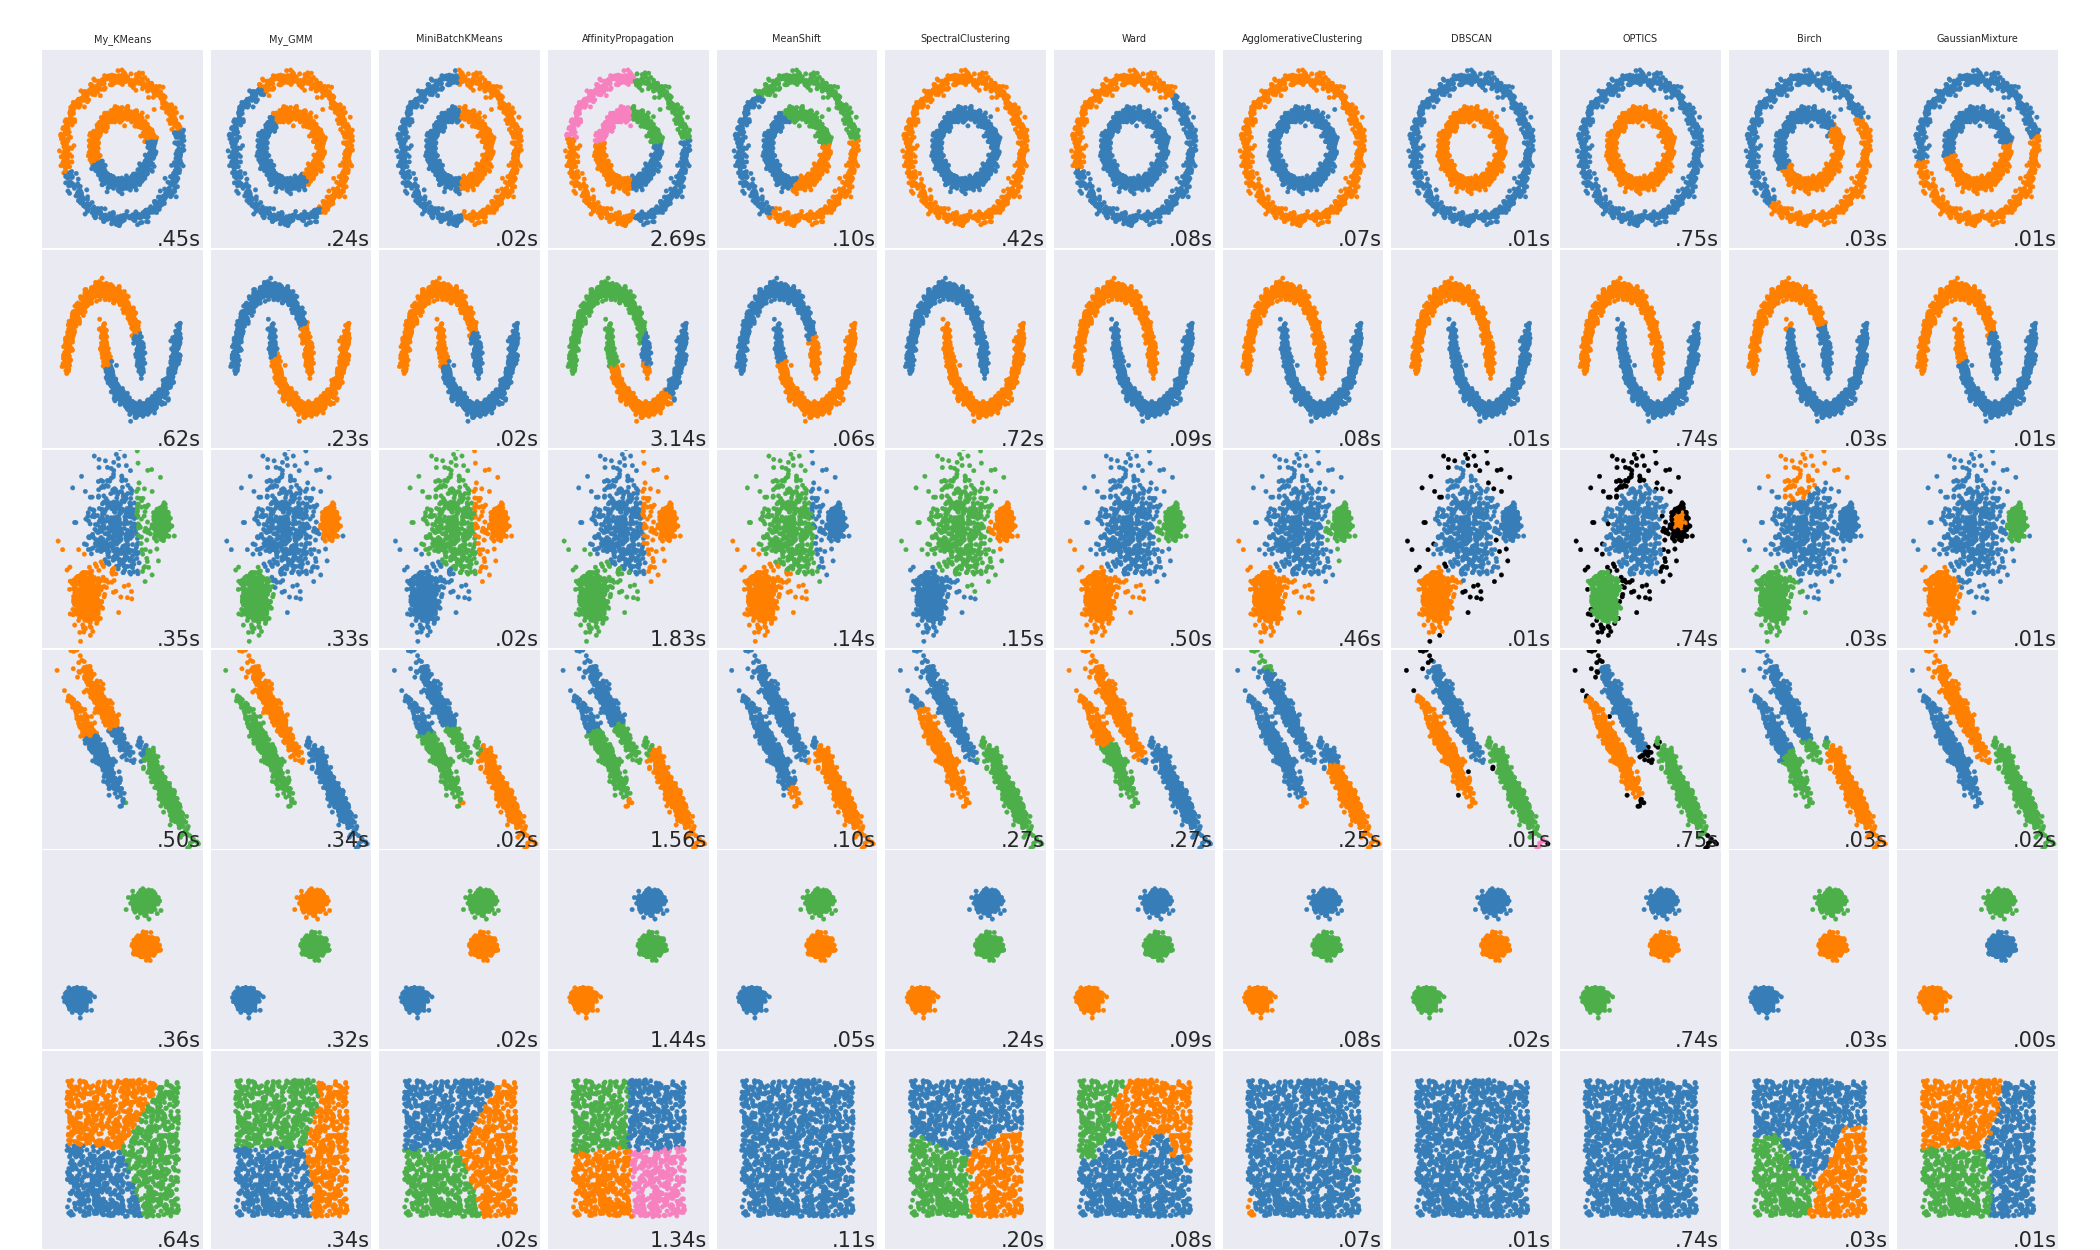
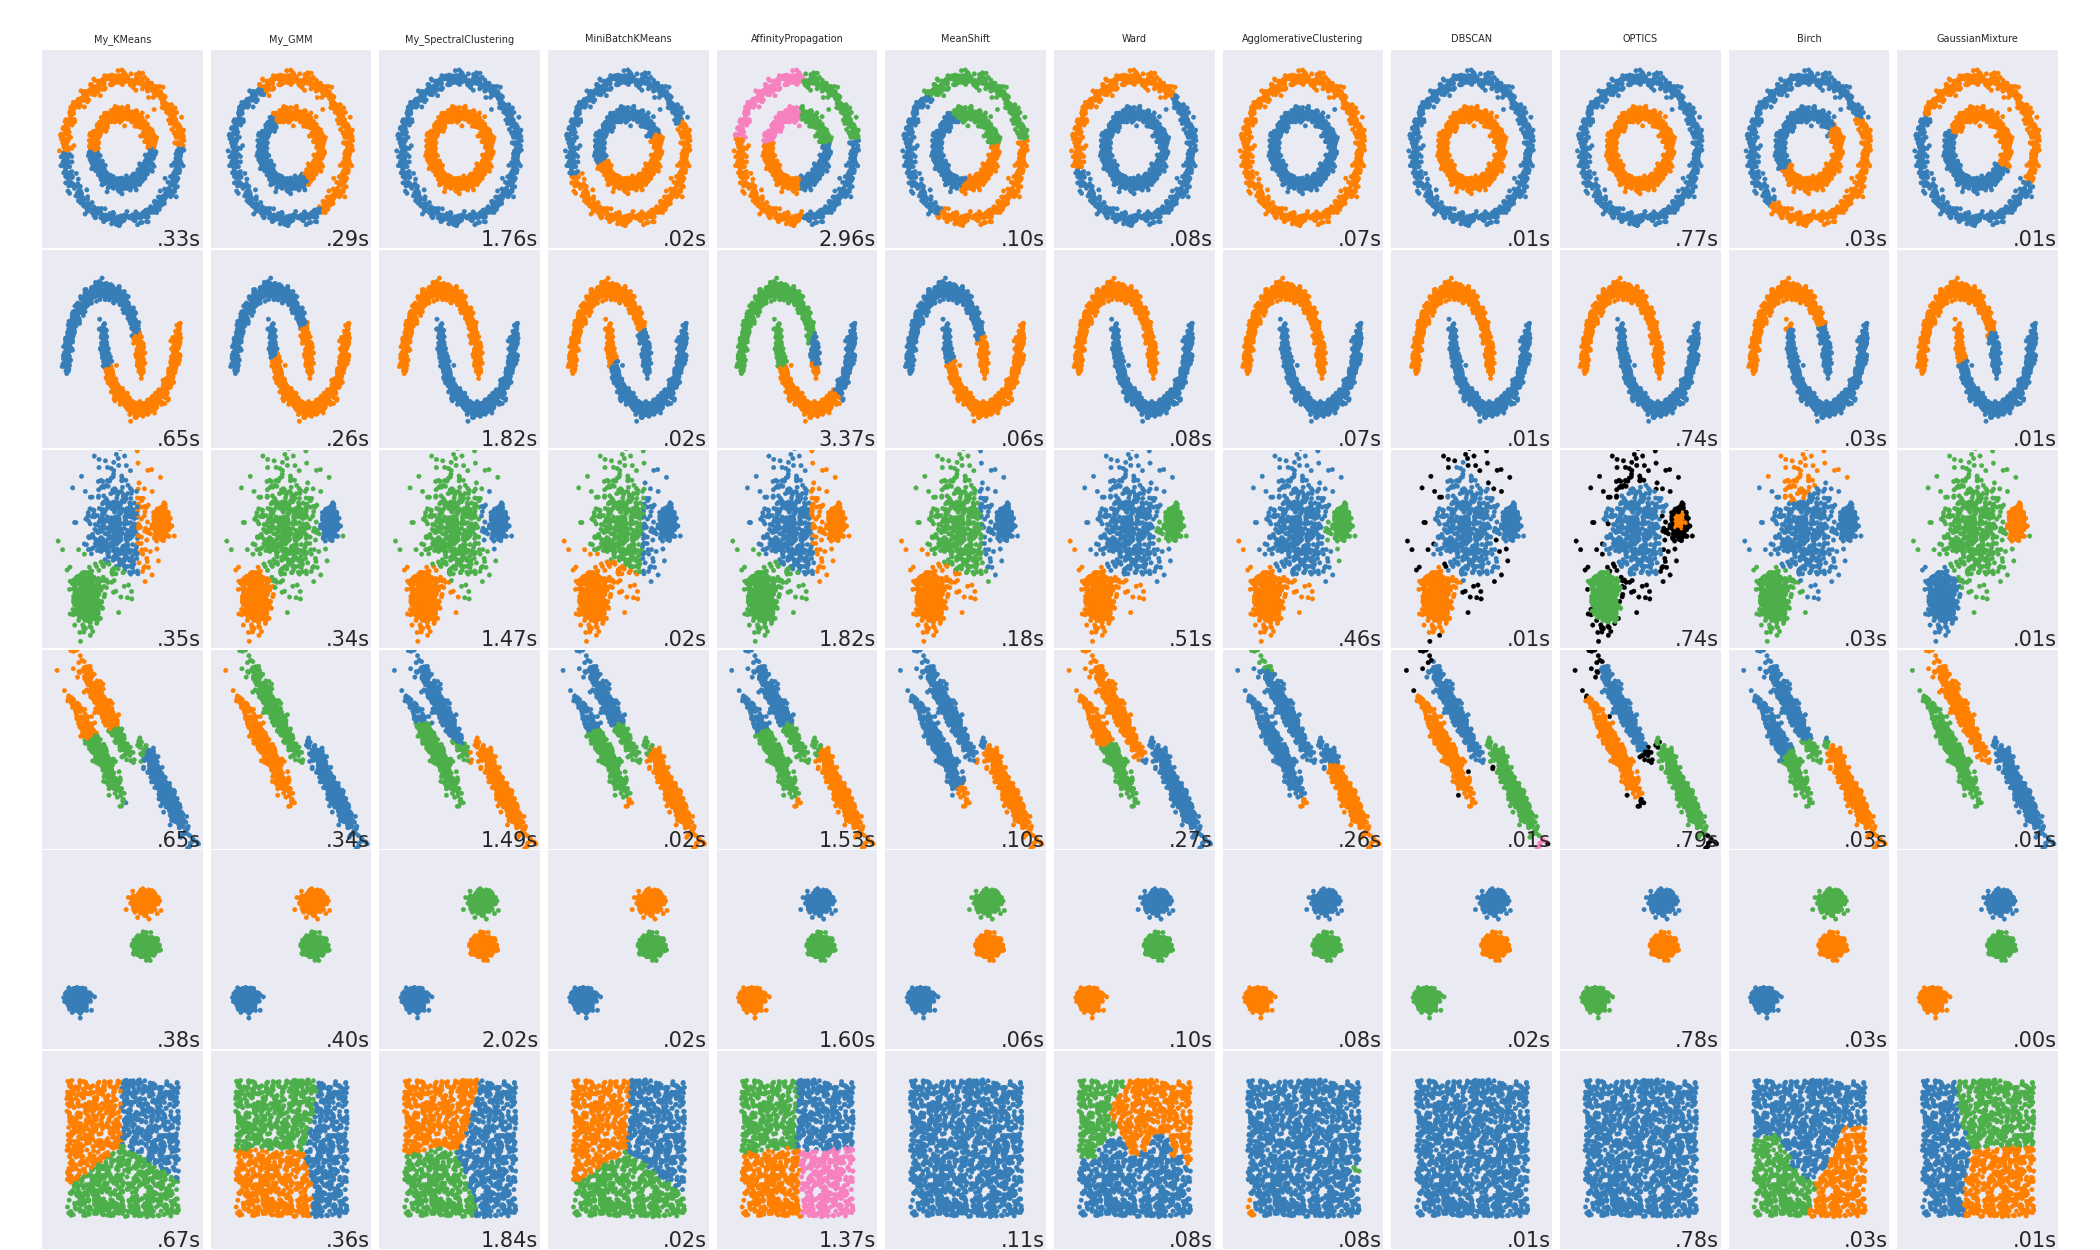
finish spectral clustering.

diff --git a/workspace/assignments/03-clustering/SpectralClustering.py b/workspace/assignments/03-clustering/SpectralClustering.py
@@ -1,0 +1,118 @@
+#!/opt/conda/envs/point-cloud/bin/python
+
+# 文件功能： 实现 Spectral Clustering 算法
+
+import numpy as np
+from sklearn.cluster import KMeans
+import matplotlib.pyplot as plt
+
+class SpectralClustering(object):
+    """
+    SpectralClustering 
+
+    Parameters
+    ----------
+    n_clusters: int
+        Number of clusters 
+
+    Attributes
+    ----------
+
+    """
+    # k是分组数；tolerance‘中心点误差’；max_iter是迭代次数
+    def __init__(self, n_clusters=2, **kwargs):
+        self.__K = n_clusters
+        self.__labels = None
+
+    def fit(self, data):
+        """
+        Estimate the K centroids
+
+        Parameters
+        ----------
+        data: numpy.ndarray
+            Training set as N-by-D numpy.ndarray
+
+        """
+        # TODO 01: implement SpectralClustering fit 
+        from sklearn.neighbors import kneighbors_graph
+        from sklearn.metrics import pairwise_distances
+        from scipy.sparse import csgraph
+        from scipy.sparse import linalg
+
+        N, _ = data.shape
+
+        # create affinity matrix -- kNN for connectivity:
+        A = pairwise_distances(data)
+        # TODO: use better gamma estimation
+        gamma = np.var(A)/4
+        A = np.exp(-A**2/(2*gamma**2))
+        # get laplacian matrix:
+        L = csgraph.laplacian(A, normed=True)
+        # spectral decomposition:
+        eigval, eigvec = np.linalg.eig(L)
+        # get features:
+        idx_k_smallest = np.where(eigval < np.partition(eigval, self.__K)[self.__K])
+        features = np.hstack([eigvec[:, i] for i in idx_k_smallest])
+        # cluster using KMeans++
+        k_means = KMeans(init='k-means++', n_clusters=self.__K, tol=1e-6)
+        k_means.fit(features)
+        # get cluster ids:
+        self.__labels = k_means.labels_
+
+    def predict(self, data):
+        """
+        Get cluster labels
+
+        """
+        return np.copy(self.__labels)
+
+def generate_dataset(N=300, noise=0.07, random_state=42, visualize=False):
+    """
+    Generate dataset for spectral clustering
+
+    Parameters
+    ----------
+    visualize: boolean
+        Whether to visualize the generated data
+
+    """
+    from sklearn.datasets import make_moons
+    
+    X, y = make_moons(N, noise=noise, random_state=random_state)
+
+    if visualize:
+        fig, ax = plt.subplots(figsize=(16,9))
+        ax.set_title('Test Dataset for Spectral Clustering', fontsize=18, fontweight='demi')
+        ax.scatter(X[:, 0], X[:, 1], c=y, s=50, cmap='viridis')
+        plt.show()
+
+    return X
+
+
+if __name__ == '__main__':
+    # create dataset:
+    K = 2
+    X = generate_dataset(visualize=False)
+
+    # spectral clustering estimation:
+    sc = SpectralClustering(n_clusters=K)
+    sc.fit(X)
+
+    category = sc.predict(X)
+
+    # visualize:
+    color = ['red','blue','green','cyan','magenta']
+    labels = [f'Cluster{k:02d}' for k in range(K)]
+
+    for k in range(K):
+        plt.scatter(X[category == k][:,0], X[category == k][:,1], c=color[k], label=labels[k])
+
+    plt.xlabel('X')
+    plt.ylabel('Y')
+    plt.legend()
+    plt.title('Spectral Clustering Testcase')
+    plt.show()
+
+
+

diff --git a/workspace/assignments/03-clustering/compare_cluster.py b/workspace/assignments/03-clustering/compare_cluster.py
@@ -18,6 +18,7 @@ from itertools import cycle, islice
 
 from KMeans import KMeans
 from GMM import GMM
+from SpectralClustering import SpectralClustering
 
 np.random.seed(0)
 
@@ -106,15 +107,17 @@ for i_dataset, (dataset, algo_params) in enumerate(datasets):
     # 自编的K-Means、GMM算法
     my_kmeans = KMeans(n_clusters=params['n_clusters'])
     my_gmm = GMM(n_clusters=params['n_clusters'])
+    my_spectral = SpectralClustering(
+        n_clusters=params['n_clusters'], 
+        eigen_solver='arpack',
+        affinity="nearest_neighbors"
+    )
     # sklearn中自带的算法
     ms = cluster.MeanShift(bandwidth=bandwidth, bin_seeding=True)
     two_means = cluster.MiniBatchKMeans(n_clusters=params['n_clusters'])
     ward = cluster.AgglomerativeClustering(
         n_clusters=params['n_clusters'], linkage='ward',
         connectivity=connectivity)
-    spectral = cluster.SpectralClustering(
-        n_clusters=params['n_clusters'], eigen_solver='arpack',
-        affinity="nearest_neighbors")
     dbscan = cluster.DBSCAN(eps=params['eps'])
     optics = cluster.OPTICS(min_samples=params['min_samples'],
                             xi=params['xi'],
@@ -131,10 +134,10 @@ for i_dataset, (dataset, algo_params) in enumerate(datasets):
     clustering_algorithms = (
         ('My_KMeans', my_kmeans),
         ('My_GMM', my_gmm),
+        ('My_SpectralClustering', my_spectral),
         ('MiniBatchKMeans', two_means),
         ('AffinityPropagation', affinity_propagation),
         ('MeanShift', ms),
-        ('SpectralClustering', spectral),
         ('Ward', ward),
         ('AgglomerativeClustering', average_linkage),
         ('DBSCAN', dbscan),

diff --git a/workspace/assignments/03-clustering/README.md b/workspace/assignments/03-clustering/README.md
@@ -212,6 +212,78 @@ The result clustering is as follows:
 
 ---
 
+### Spectral Clustering
+
+The implementation, which follows the practice of Python OOAD, is available at (click to follow the link) **[/workspace/assignments/03-clustering/SpectralClustering.py](SpectralClustering.py)**
+
+First is the code for **fit**.
+
+```python
+    def fit(self, data):
+        """
+        Estimate the K centroids
+
+        Parameters
+        ----------
+        data: numpy.ndarray
+            Training set as N-by-D numpy.ndarray
+
+        """
+        # TODO 01: implement SpectralClustering fit 
+        from sklearn.neighbors import kneighbors_graph
+        from sklearn.metrics import pairwise_distances
+        from scipy.sparse import csgraph
+        from scipy.sparse import linalg
+
+        N, _ = data.shape
+
+        # create affinity matrix -- kNN for connectivity:
+        A = pairwise_distances(data)
+        # TODO: use better gamma estimation
+        gamma = np.var(A)/4
+        A = np.exp(-A**2/(2*gamma**2))
+        # get laplacian matrix:
+        L = csgraph.laplacian(A, normed=True)
+        # spectral decomposition:
+        eigval, eigvec = np.linalg.eig(L)
+        # get features:
+        idx_k_smallest = np.where(eigval < np.partition(eigval, self.__K)[self.__K])
+        features = np.hstack([eigvec[:, i] for i in idx_k_smallest])
+        # cluster using KMeans++
+        k_means = KMeans(init='k-means++', n_clusters=self.__K, tol=1e-6)
+        k_means.fit(features)
+        # get cluster ids:
+        self.__labels = k_means.labels_
+```
+
+Next comes the logic for **predict**. The implementation follows the sklearn practice and just returns the *labels_* attribute for benchmark.
+
+```python
+    def predict(self, data):
+        """
+        Get cluster labels
+
+        """
+        return np.copy(self.__labels)
+```
+
+To run the test case, launch the docker environment and go to **/workspace/assignments/03-clustering/** and run the following commands:
+
+```bash
+# go to HW3 working dir:
+cd /workspace/assignments/03-clustering
+# activate environment:
+source activate point-cloud
+# SpectralClustering:
+./SpectralClustering.py
+```
+
+The result clustering is as follows:
+
+<img src="doc/03-spectralclustering-testcase.png" alt="Spectral Clustering Testcase" width="100%">
+
+---
+
 ### Benchmark
 
 To run the test cases, go to **/workspace/assignments/03-clustering/** and run the following commands:
